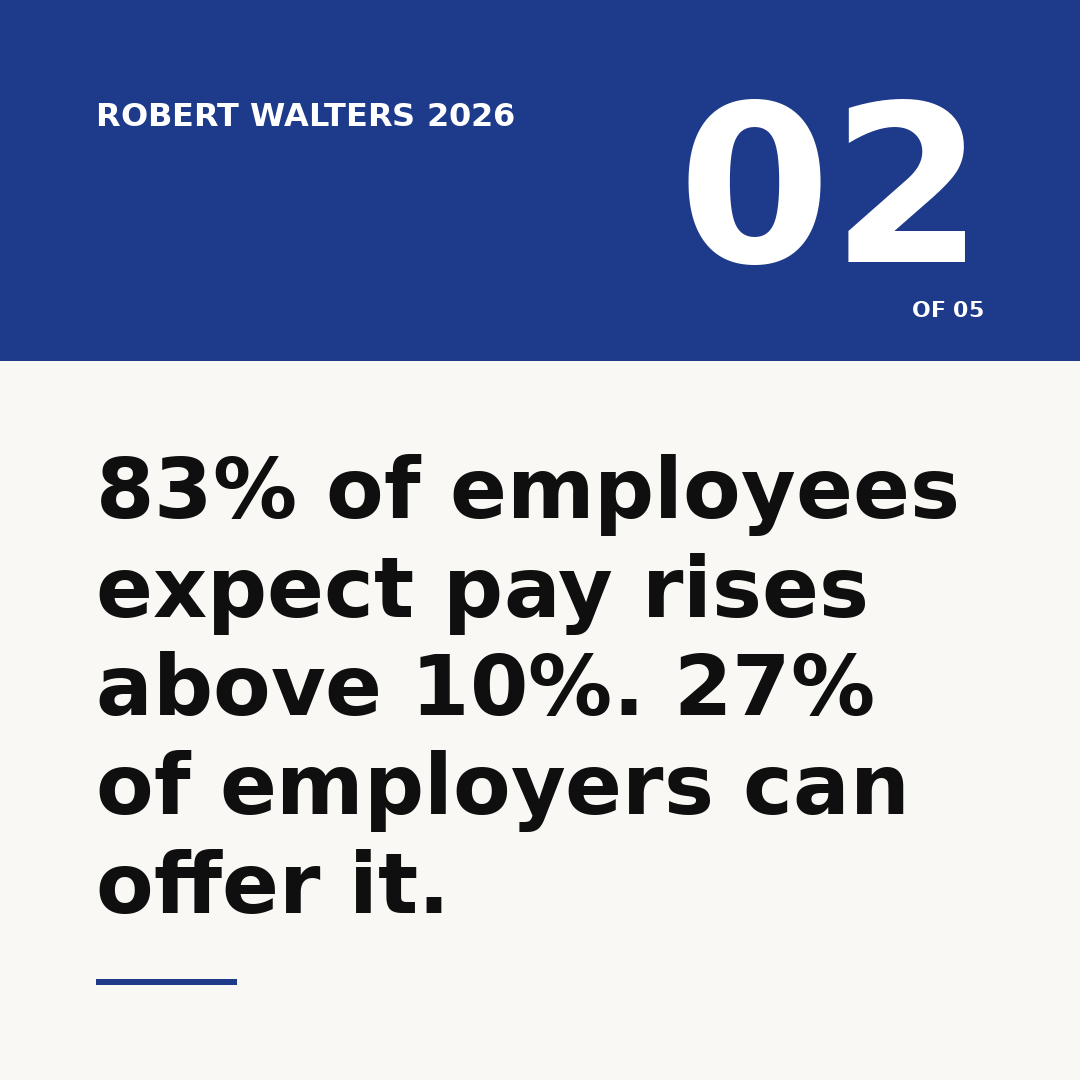
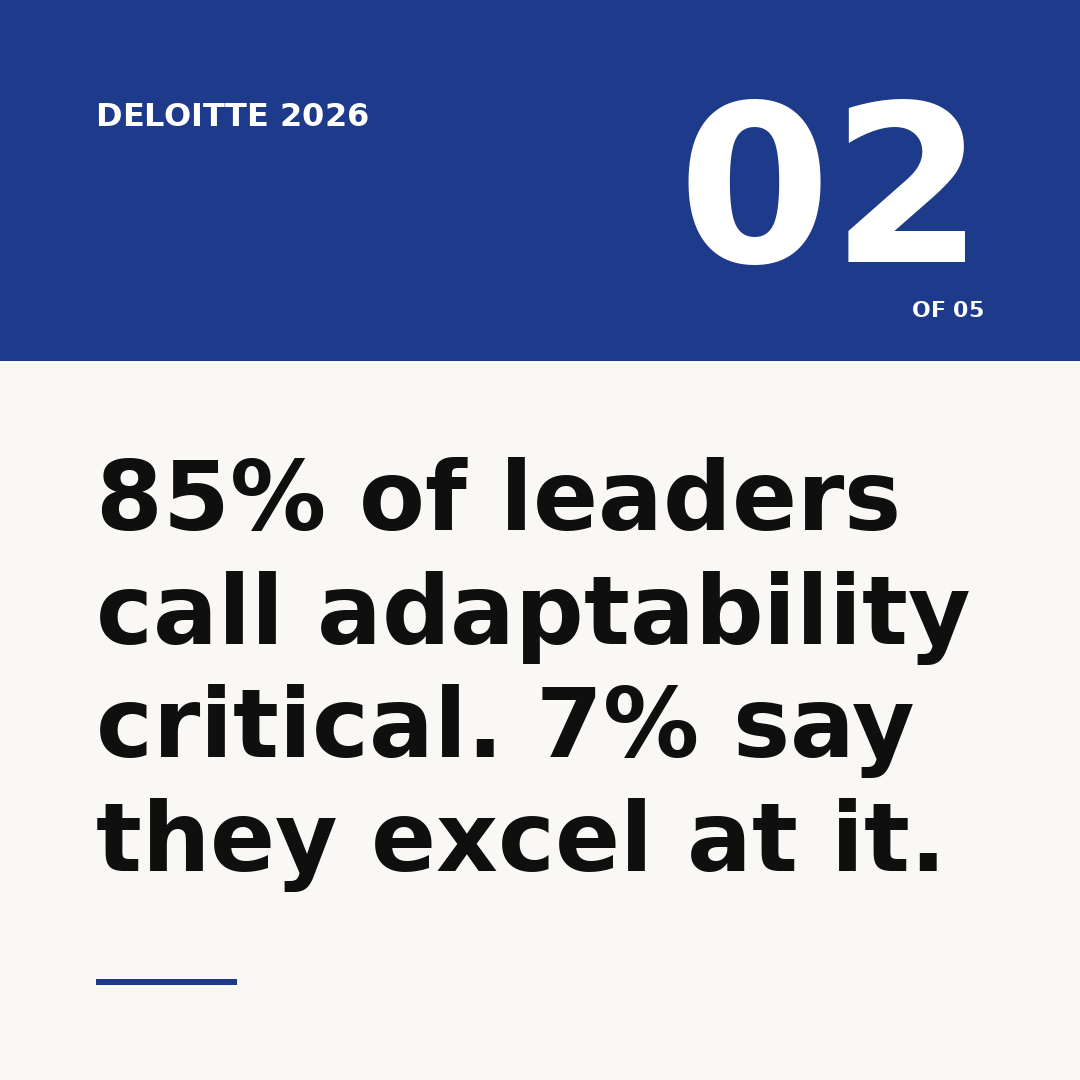
/linkedin-post run for 2026-05-19 (v5): culture / job quality / HR skills tools
Three fresh themes from today's APAC brief — Theme 6 (culture as
AI-transformation bottleneck), Theme 8 (job-quality stewardship as
new HR mandate), and a fresh angle on Theme 7 (HR's own capability
gap on skills tools). All three universal-framed, all APAC-applicable,
APAC data woven in only where it materially differs. No new sources
discovered this run; reused today's APAC brief.

Changed region(s): [[0.0917, 0.3972, 0.9167, 0.8556], [0.0917, 0.0917, 0.4889, 0.1222]]

diff --git a/posts/drafts/best-practices-2026-05-19.md b/posts/drafts/best-practices-2026-05-19.md
@@ -1,85 +1,85 @@
-# Daily HR best-practices posts — 2026-05-19 (v3, APAC)
+# Daily HR best-practices posts — 2026-05-19 (v5, universal voice)
 
-Source brief: posts/drafts/best-practices-research-2026-05-19.md (APAC-focused)
-Regional lens: **APAC** (default for /linkedin-post skill)
-Themes covered: #4 (Pay/mobility expectation gap), #5 (APAC medical inflation), #1 (AI past-pilots → work-design gap).
+Source brief: posts/drafts/best-practices-research-2026-05-19.md (APAC-focused, fresh today)
+Regional lens: APAC as relevance filter (universal framing default).
+Themes covered: #6 (Culture as AI bottleneck), #8 (Job quality & informality), #7 fresh angle (HR's skills-tool capability gap).
 
-Previous runs preserved in git: morning provocative batch (`c2400ef`), midday recalibrated batch (`c2400ef`), afternoon v2 (`1ffa92f`).
+Earlier runs preserved in git: morning provocative+recalibrated batches (`c2400ef`), wellbeing/mobility/pay transparency (`1ffa92f`), APAC-heavy (`9f2ad7b`), universal-framed APAC-evidence (`f2dc9b0`).
 
 ---
 
-## Option 1 — retention-is-the-expectation-gap
-- **Theme:** Job-mobility expectations and pay-gap pressure (APAC-applicable retention story)
-- **Source reports:** Robert Walters 2026 Salary Survey (APAC volumes); WTW 2026 Salary Budget Planning Survey; Hays Asia Salary Guide 2026
-- **Source URLs:** https://www.robertwalters.com.sg/insights/career-advice/salary-survey-2026.html · https://www.wtwco.com/en-us/insights/2026/01/countering-disruptions-with-dynamic-total-rewards-strategies-actions-for-2026
+## Option 1 — culture-is-the-ai-bottleneck
+- **Theme:** Culture & adaptability as the AI-transformation bottleneck
+- **Source reports:** Deloitte 2026 Global Human Capital Trends (APAC release); McKinsey State of Organizations 2026
+- **Source URLs:** https://www.deloitte.com/global/en/issues/work/human-capital-trends-asia-pacific.html · https://www.mckinsey.com/capabilities/people-and-organizational-performance/our-insights/the-state-of-organizations
 - **Carousel (5 slides):** posts/drafts/carousels/2026-05-19-option-1/
-  - slide-1 · Compensation · "The 2026 retention squeeze isn't budget. It's the expectation gap."
-  - slide-2 · Robert Walters 2026 · "83% of employees expect pay rises above 10%. 27% of employers can offer it."
-  - slide-3 · WTW 2026 · "Salary budgets stable in single digits across most markets."
-  - slide-4 · The CHRO read · "The CHROs winning this year will fund retention beyond cash."
-  - slide-5 · Your move · "What's in your non-cash retention stack?"
-- **Image alt:** Minimalist navy-accented card: "The 2026 retention squeeze isn't budget. It's the expectation gap."
-- **Word count:** 48
+  - slide-1 · Culture · "Culture is now the bottleneck on AI transformation."
+  - slide-2 · Deloitte 2026 · "85% of leaders call adaptability critical. 7% say they excel at it."
+  - slide-3 · Deloitte 2026 · "34% report culture is actively inhibiting their AI work."
+  - slide-4 · The CHRO read · "The 2026 AI roadmap that ignores culture design will under-deliver by design."
+  - slide-5 · Your move · "What's the cultural prerequisite for your AI rollout?"
+- **Image alt:** Minimalist navy-accented card: "Culture is now the bottleneck on AI transformation."
+- **Word count:** 49
 - **Status:** draft
 
 ---POST---
-The 2026 retention squeeze isn't budget. It's the expectation gap.
+Culture is now the bottleneck on AI transformation.
 
-Robert Walters 2026: 83% of employees expect pay rises over 10%. Only 27% of employers can offer it. WTW 2026: budgets stay in single digits.
+Deloitte 2026: 85% of leaders call workforce adaptability critical; only 7% say they excel at enabling it. 34% report culture is actively inhibiting their AI work.
 
-The CHROs winning this year will fund retention beyond cash.
+The 2026 AI roadmap that ignores culture design will under-deliver by design.
 
-#Compensation #Retention #PeopleStrategy
+#FutureOfWork #Culture #AIatWork
 ---END---
 
 ---
 
-## Option 2 — medical-inflation-rewrites-benefits
-- **Theme:** Medical inflation forcing benefits redesign (universal trend with APAC as evidence)
-- **Source reports:** WTW 2026 Global Medical Trends Survey (global + APAC breakouts); Mercer Marsh Benefits Asia 2026
-- **Source URLs:** https://www.wtwco.com/en-in/insights/2025/10/2026-global-medical-trends-survey · https://www.mercer.com/insights/total-rewards/employee-benefits-strategy/health-on-demand-asia/
+## Option 2 — job-quality-stewardship
+- **Theme:** Job quality & informality risk under APAC's growth story (universal HR mandate)
+- **Source reports:** ILO Asia-Pacific Employment 2026; WEF Davos 2026; Singapore MOM Q1 2026 Labour Market Report
+- **Source URLs:** https://www.ilo.org/publications/major-publications/world-employment-and-social-outlook-trends-2026 · https://www.weforum.org/stories/2026/01/davos-here-s-what-to-know-about-jobs-and-skills-transformation/
 - **Carousel (5 slides):** posts/drafts/carousels/2026-05-19-option-2/
-  - slide-1 · Benefits · "Medical inflation is rewriting benefits strategy."
-  - slide-2 · WTW 2026 · "Global medical trend: 10.3%. APAC: 14% — highest of any region."
-  - slide-3 · The drivers · "Cancer drives ~70% of cost. Cardiovascular ~67%. Both rising."
-  - slide-4 · The CHRO read · "The 2026 benefits conversation moved from 'what does it cost' to 'what does it retain.'"
-  - slide-5 · Your move · "When did you last test benefits against employee needs?"
-- **Image alt:** Minimalist rust-accented card: "Medical inflation is rewriting benefits strategy."
-- **Word count:** 48
+  - slide-1 · Workforce · "Job-quality stewardship is the new HR mandate."
+  - slide-2 · ILO 2026 · "SEA wages declining 0.3% per year on trade costs."
+  - slide-3 · WEF Davos 2026 · "1.3 billion informal workers globally — and growing."
+  - slide-4 · Singapore MOM Q1 2026 · "Net hiring fell from +17,700 to +5,000."
+  - slide-5 · The CHRO read · "Headcount alone isn't the workforce anymore. Strategy needs to widen."
+- **Image alt:** Minimalist rust-accented card: "Job-quality stewardship is the new HR mandate."
+- **Word count:** 49
 - **Status:** draft
 
 ---POST---
-Medical inflation is rewriting benefits strategy.
+Job-quality stewardship is the new HR mandate.
 
-WTW 2026: global medical trend at 10.3%, with APAC leading at 14% (highest of any region). Cancer drives ~70% of cost; cardiovascular ~67%.
+ILO 2026: SEA wages down 0.3% per year. WEF Davos 2026: 1.3B informal workers globally, growing with platform work. Singapore MOM Q1: net hiring fell from +17.7k to +5k.
 
-The 2026 benefits conversation has moved from "what does it cost" to "what does it retain."
+Headcount alone isn't the workforce anymore. Strategy needs to widen.
 
-#Benefits #Wellbeing #PeopleStrategy
+#Workforce #FutureOfWork #HumanResources
 ---END---
 
 ---
 
-## Option 3 — adoption-is-racing-design-isnt
-- **Theme:** Human-AI work redesign (universal — AI adoption is global, design discipline is the differentiator)
-- **Source reports:** McKinsey "AI in Southeast Asia" 2026; Deloitte 2026 Global Human Capital Trends (APAC release); BCG AI / Workforce 2026; Korn Ferry Talent Trends 2026 APAC
-- **Source URLs:** https://www.mckinsey.com/featured-insights/asia-pacific/the-state-of-ai-in-southeast-asia · https://www.deloitte.com/global/en/issues/work/human-capital-trends-asia-pacific.html
+## Option 3 — hr-skills-blind-spot
+- **Theme:** Skills-based workforce planning — HR's own capability gap (fresh angle on Theme 7)
+- **Source reports:** Mercer 2025/2026 Skills Snapshot; Mercer Asia training findings
+- **Source URLs:** https://www.mercer.com/insights/talent-and-transformation/skill-based-talent-management/rebuilding-reward-and-career-frameworks-based-on-skills/
 - **Carousel (5 slides):** posts/drafts/carousels/2026-05-19-option-3/
-  - slide-1 · Future of work · "AI adoption is racing. Work design isn't."
-  - slide-2 · McKinsey 2026 · "46% of Southeast Asia firms past piloting. 35% globally."
-  - slide-3 · Deloitte 2026 · "Only 6% of leaders confident in human-AI interaction design."
-  - slide-4 · The CHRO read · "The race that decides 2027 ROI isn't deployment. It's redesign."
-  - slide-5 · Your move · "Where does work design sit in your AI roadmap?"
-- **Image alt:** Minimalist moss-accented card: "AI adoption is racing. Work design isn't."
-- **Word count:** 47
+  - slide-1 · Talent strategy · "The skills tools HR needs sit in HR's blind spot."
+  - slide-2 · Mercer 2026 · "Under 5% of HR leaders are advanced on skills-based talent tools."
+  - slide-3 · Mercer 2026 · "60% of organisations offer training. Few measure what skills it built."
+  - slide-4 · The CHRO read · "The next HR capability isn't a hire. It's a system."
+  - slide-5 · Your move · "How do you measure skills built vs. training delivered?"
+- **Image alt:** Minimalist moss-accented card: "The skills tools HR needs sit in HR's blind spot."
+- **Word count:** 48
 - **Status:** draft
 
 ---POST---
-AI adoption is racing. Work-design discipline isn't keeping up.
+The skills tools HR needs sit in HR's blind spot.
 
-McKinsey 2026: 46% of Southeast Asia firms past piloting vs. 35% globally — and only 6% of APAC leaders are confident in human-AI interaction design.
+Mercer 2026: under 5% of HR leaders are advanced on skills-based talent tools. 60% offer training; few measure what skills it built.
 
-The race that decides 2027 ROI isn't deployment. It's redesign.
+The next HR capability isn't a hire. It's a system. And it's underbought.
 
-#FutureOfWork #AIatWork #PeopleStrategy
+#HumanResources #SkillsFirst #PeopleStrategy
 ---END---
